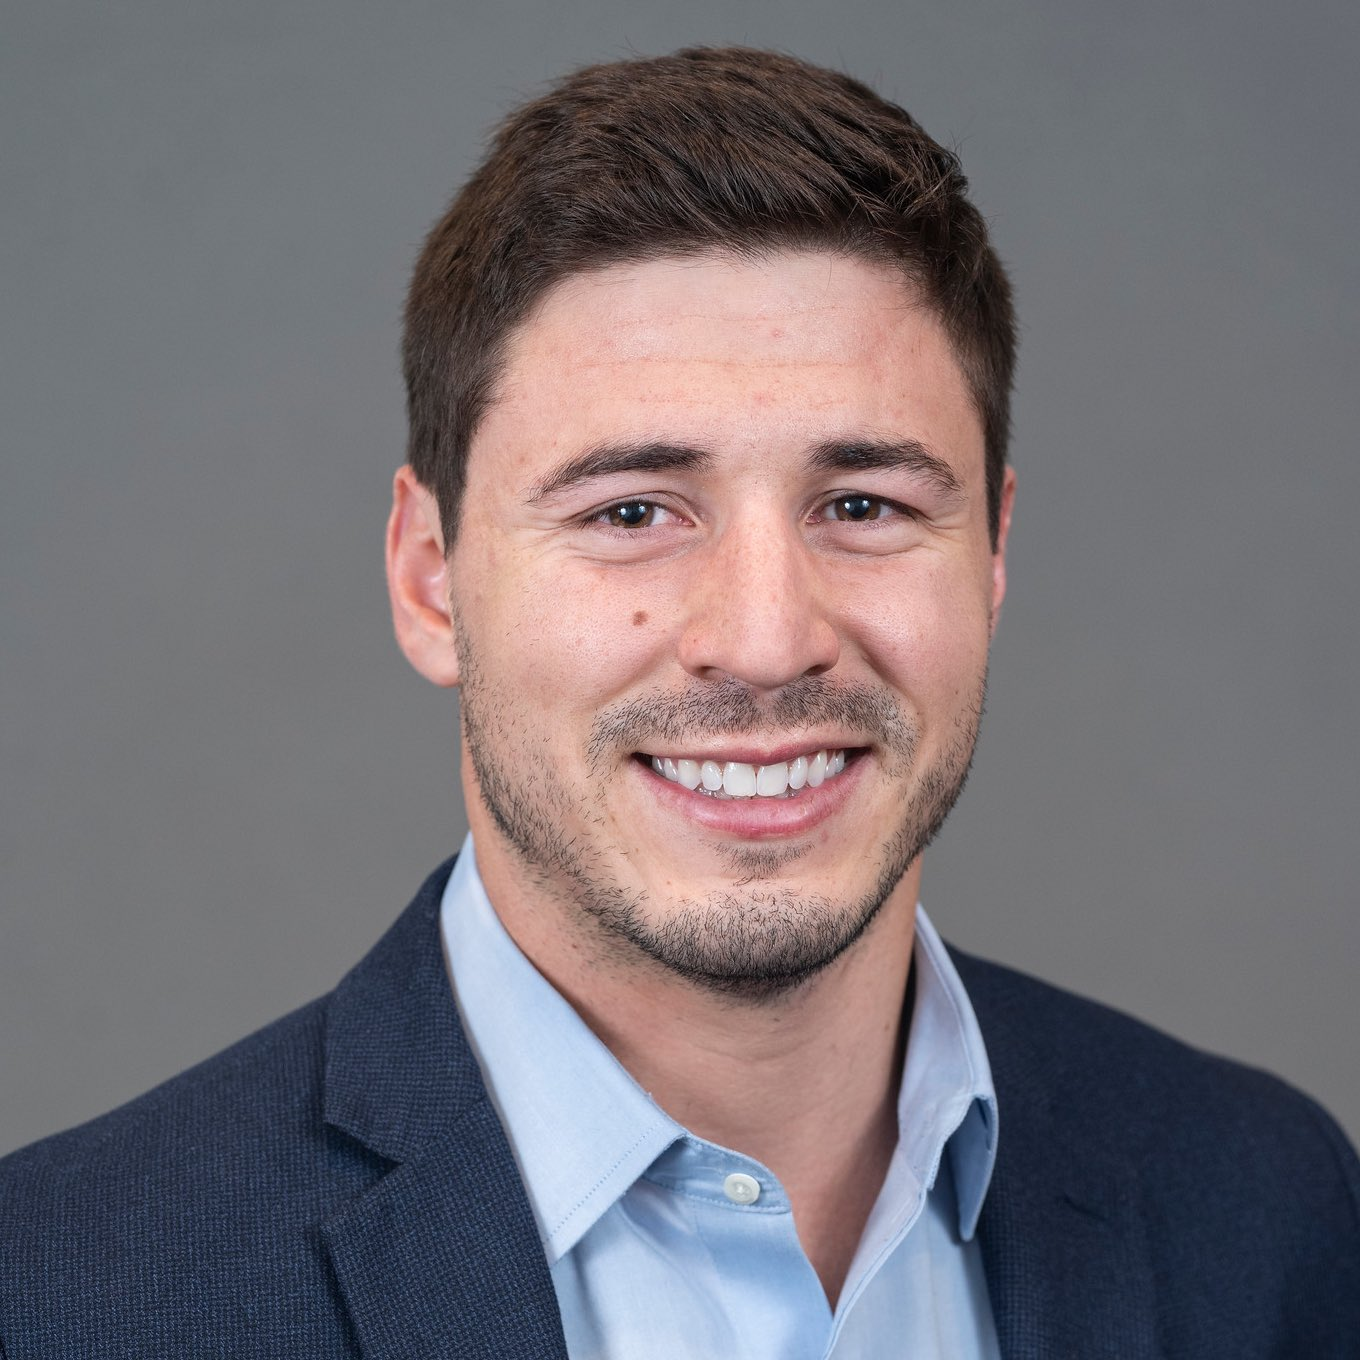
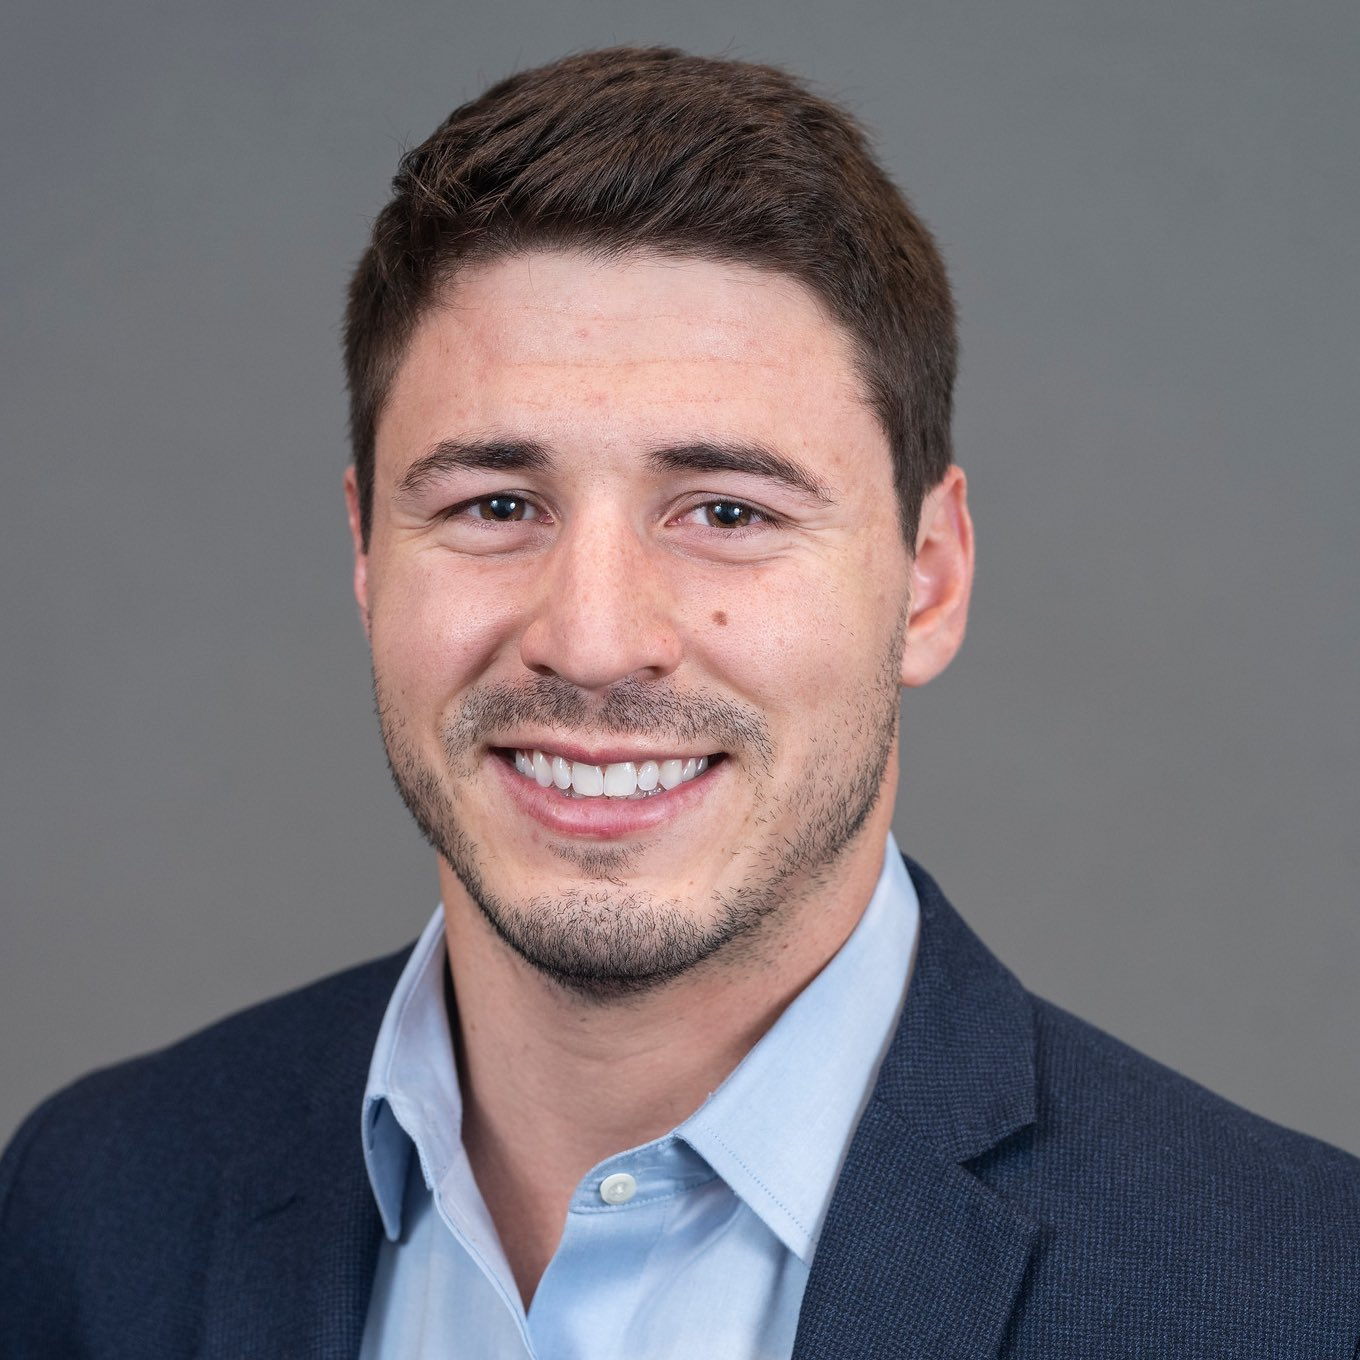
Update picture

diff --git a/_pages/about.md b/_pages/about.md
@@ -6,7 +6,7 @@ description: MPA & Gleitsman Leadership Fellow, Harvard University<br />Engineer
 
 profile:
   align: right
-  image: gj_profpic.jpg
+  image: gonzalo.jpeg
   address: 
     <p>gjara@hks.harvard.edu<br>
     +1 (617) 852-5092<br>
